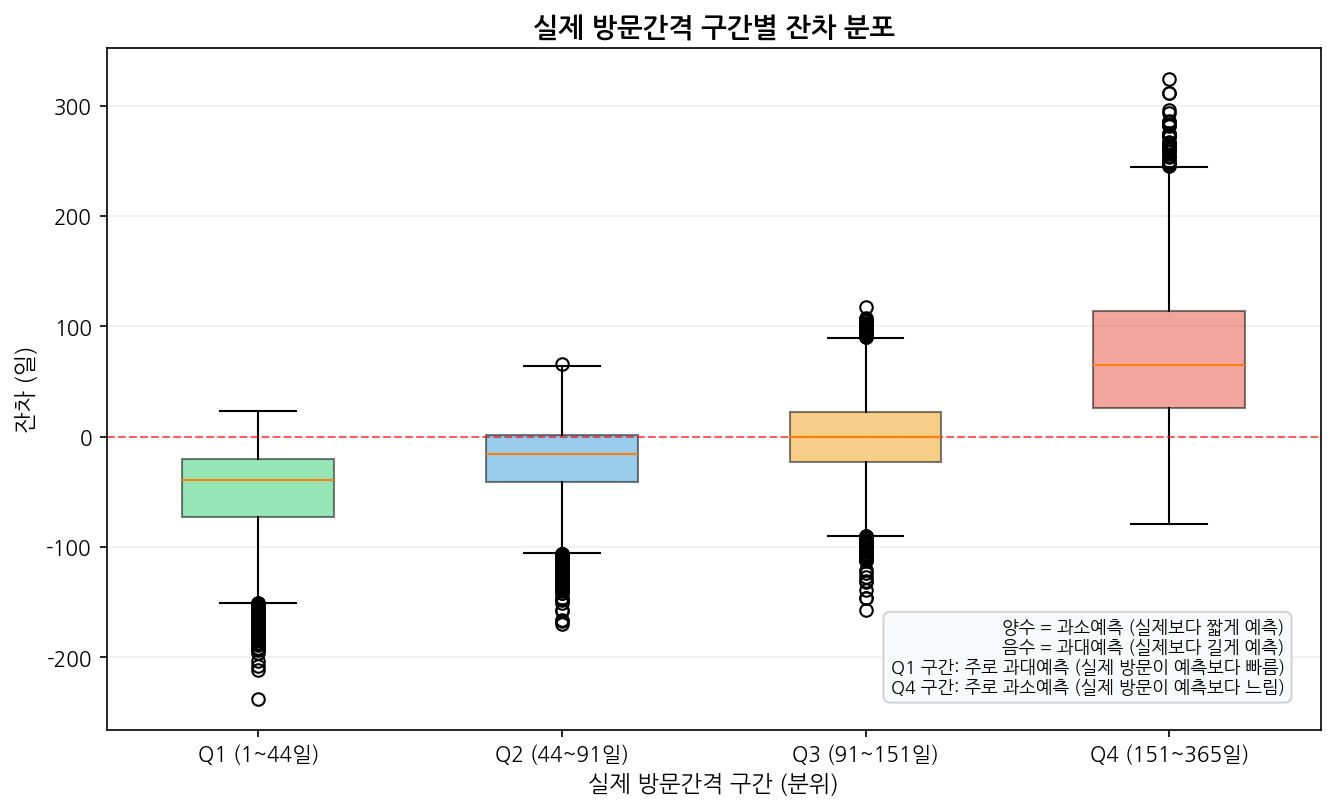
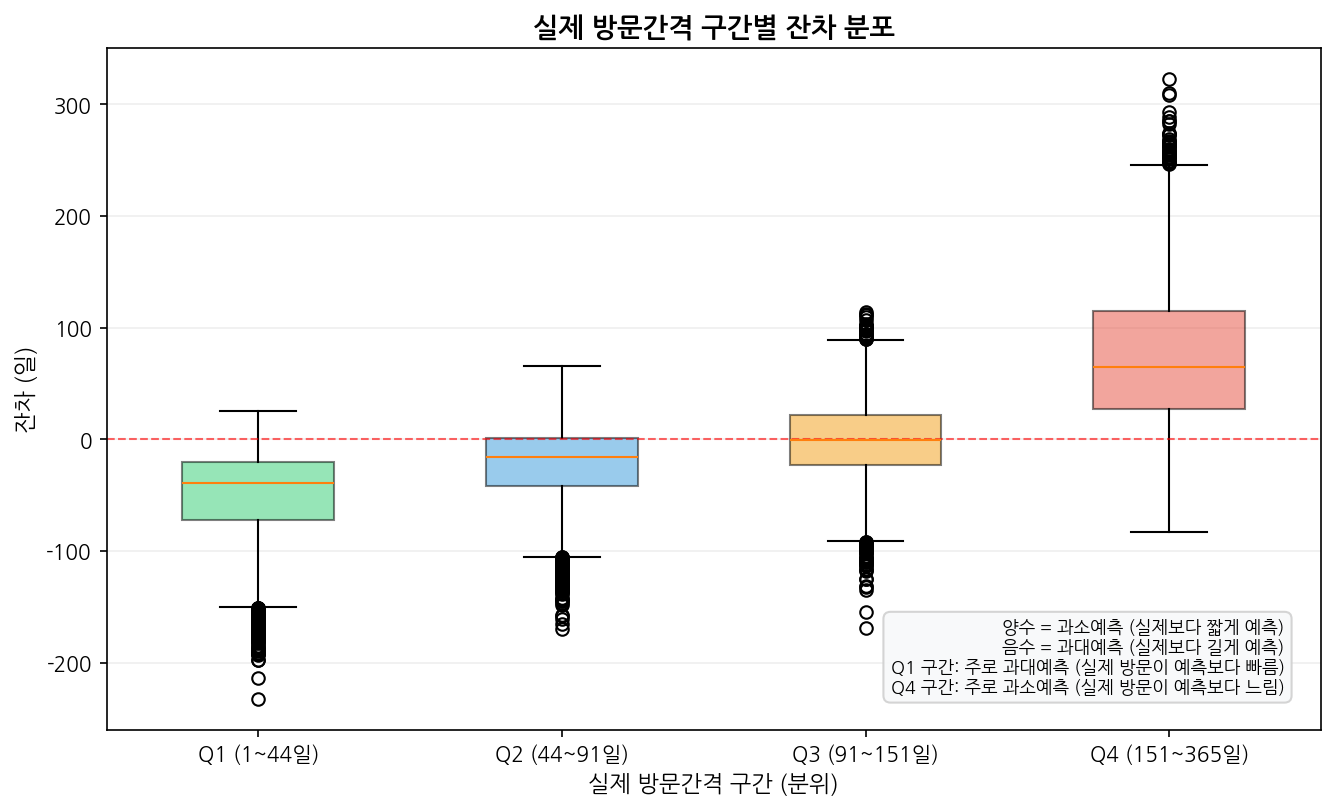
소스 데이터 교체 및 파이프라인 재실행
- DB적재_A/B.csv → DB적재_KBEAD/NICE.csv (carNo 정상)
- 01_data_processing.py: 새 CSV 파일명 반영
- 07_level2_modeling.py: car_id 추정 제거, carNo 직접 groupby
- Level 1: GB R²=0.3379 (기존과 동일)
- Level 2: GB MAE=22.11, R²=0.8349 (carNo 기반, n=10,770대)
- 오차 분석 차트 7종 재생성

Ultraworked with Sisyphus

diff --git a/scripts/07_level2_modeling.py b/scripts/07_level2_modeling.py
@@ -19,19 +19,8 @@ import xgboost as xgb
 
 df = pd.read_pickle('/tmp/df_final.pkl')
 
-# carNo가 NaN이므로 visit_count reset 패턴으로 차량 ID 복원
-visit_seq = df['visit_count'].values
-car_ids = np.zeros(len(df), dtype=int)
-current_id = 0
-car_ids[0] = current_id
-for i in range(1, len(visit_seq)):
-    if visit_seq[i] <= visit_seq[i-1]:
-        current_id += 1
-    car_ids[i] = current_id
-df['car_id'] = car_ids
-
 # 차량 단위 집계 (Level 2, Feature Set [C])
-car_features = df.groupby('car_id').agg(
+car_features = df.groupby('carNo').agg(
     drivingKm=('drivingKm','mean'),
     log_drivingKm=('log_drivingKm','mean'),
     DayAvgDrivingKm=('DayAvgDrivingKm','mean'),
@@ -59,9 +48,9 @@ car_features = df.groupby('car_id').agg(
 ).reset_index()
 
 # 3회↑ 방문 차량만
-car_visit_counts = df.groupby('car_id').size().reset_index(name='n_visits')
-eligible = car_visit_counts[car_visit_counts['n_visits'] >= 3]['car_id']
-car_features = car_features[car_features['car_id'].isin(eligible)].copy()
+car_visit_counts = df.groupby('carNo').size().reset_index(name='n_visits')
+eligible = car_visit_counts[car_visit_counts['n_visits'] >= 3]['carNo']
+car_features = car_features[car_features['carNo'].isin(eligible)].copy()
 
 print(f"Level 2 대상 차량: {len(car_features):,}대 (3회↑ 방문)")
 

diff --git a/scripts/01_data_processing.py b/scripts/01_data_processing.py
@@ -9,11 +9,11 @@ import numpy as np
 import warnings
 warnings.filterwarnings('ignore')
 
-# 데이터 로드 (※ carNo, chassisNo는 가명처리된 상태)
-src_a = pd.read_csv('data/DB적재_A.csv', encoding='cp949')
-src_b = pd.read_csv('data/DB적재_B.csv', encoding='cp949')
-src_a['source'] = 'A'
-src_b['source'] = 'B'
+# 데이터 로드
+src_a = pd.read_csv('data/DB적재_KBEAD.csv', encoding='cp949')
+src_b = pd.read_csv('data/DB적재_NICE.csv', encoding='cp949')
+src_a['source'] = 'KBEAD'
+src_b['source'] = 'NICE'
 
 df = pd.concat([src_a, src_b], ignore_index=True)
 df = df.dropna(subset=['carNo'])
